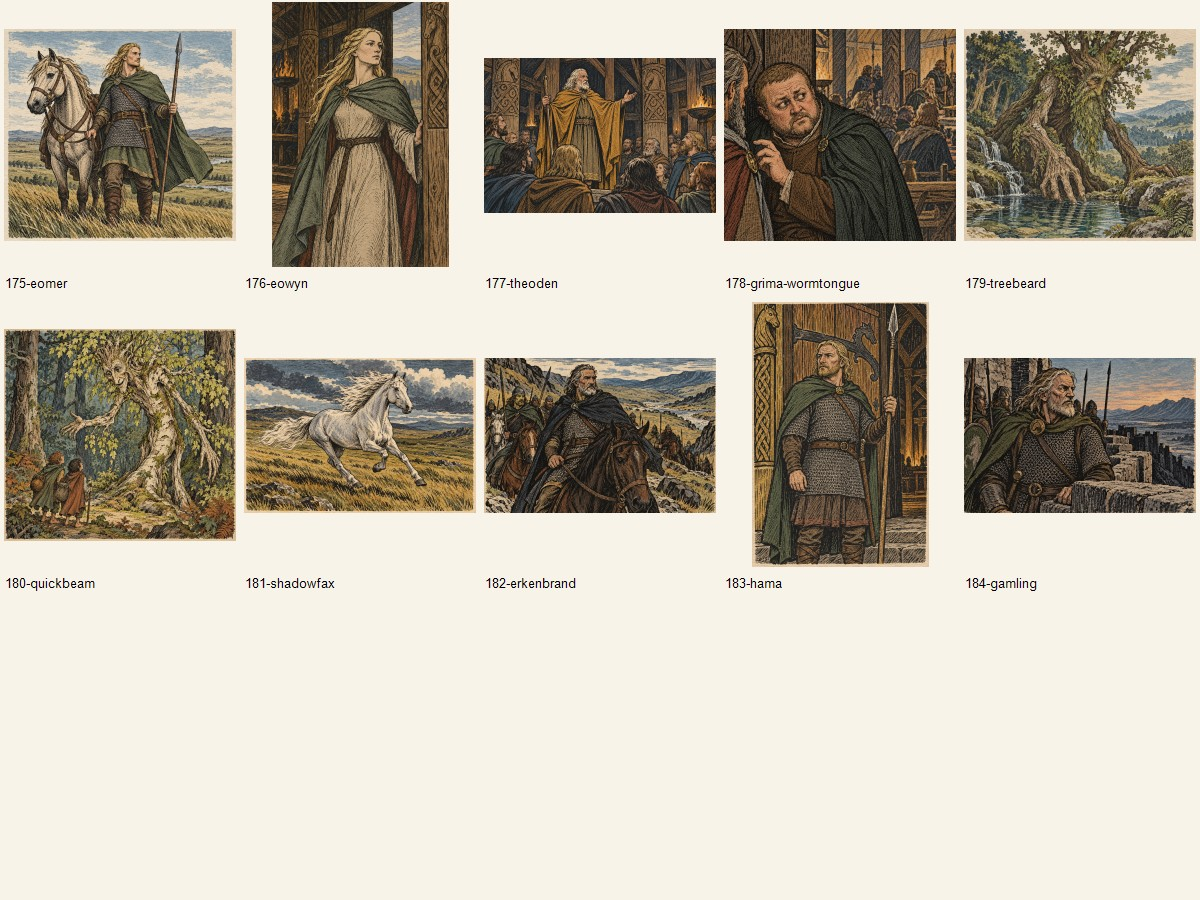
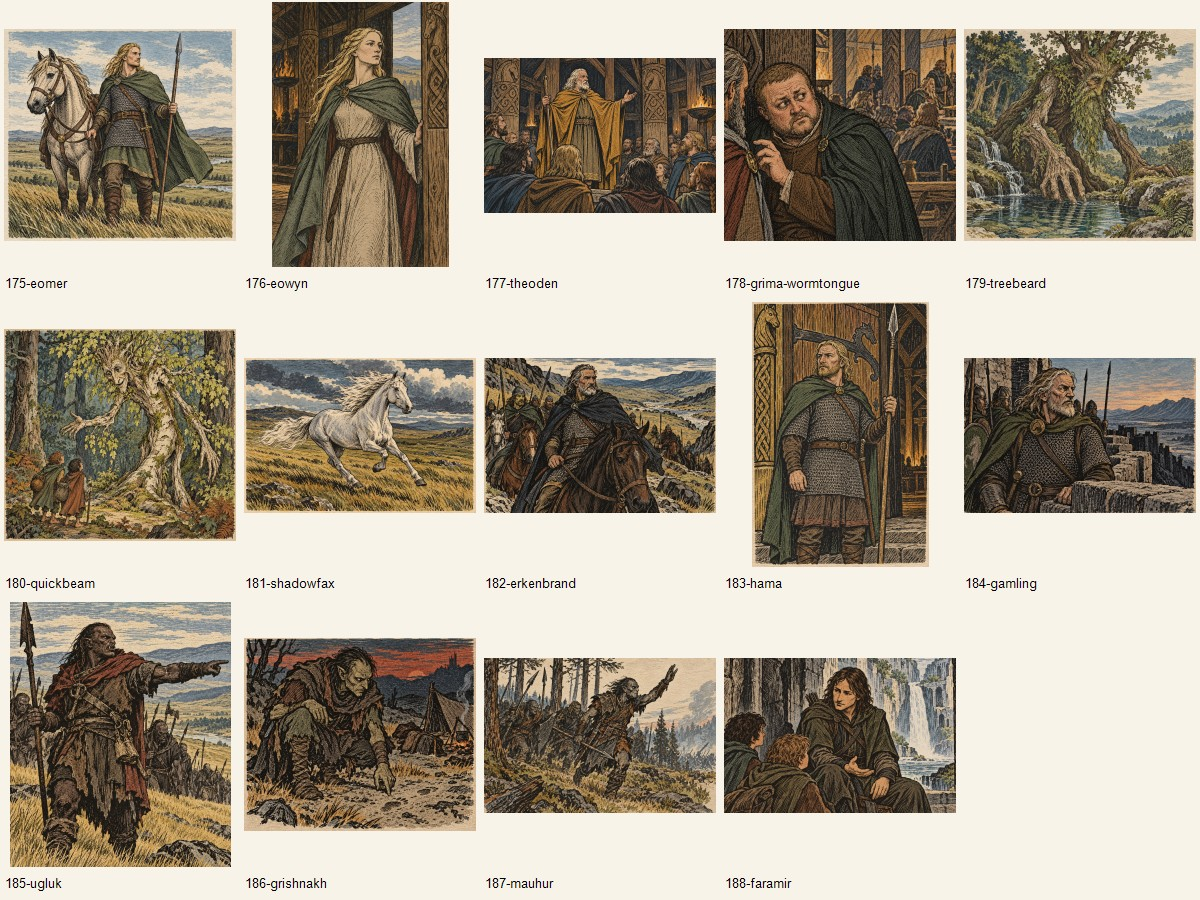
Add Two Towers Orc leaders and Faramir illustrations

diff --git a/scripts/lotr-two-books-art/PROGRESS.md b/scripts/lotr-two-books-art/PROGRESS.md
@@ -11,14 +11,14 @@ Work on both books together. Reuse art for the same subject across books, but ne
 ## Inventory and progress
 
 - `manifest.json` lists 217 distinct original illustrations for 389 cover, character, item and location slots: 173 Fellowship and 216 Two Towers. Exactly 172 illustrations are shared across books. Book-specific extras are one Fellowship cover and 44 Two Towers subjects.
-- 184 final images are accepted, registered, and converted to JPEG: assets 001-184. The PNG masters are ignored by Git. 33 assets remain pending.
+- 188 final images are accepted, registered, and converted to JPEG: assets 001-188. The PNG masters are ignored by Git. 29 assets remain pending.
 - `make-contact-sheets.ps1` produces category sheets for visual review; the first cover and character sheets were generated and inspected.
 - The accepted Fellowship cover depicts Tom Bombadil guiding the four hobbits from the Old Forest, a book scene omitted by the films. The accepted Two Towers cover depicts Faramir speaking to Frodo and Sam in Henneth Annûn. Accepted shared art includes a distinctly non-film Aragorn, Arwen, a shadow-and-flame Balrog without film horns or wings, and Barliman Butterbur.
 - An earlier Fellowship cover with a nine-person lineup, an earlier Aragorn that resembled the film actor, a multi-pose Boromir, a blond film-like Legolas, an eye-shaped Sauron, and initial Erestor, Glóin, and Saruman variants with film-like Council or character imagery were rejected and are not part of the registered assets.
 - The `.pwk` files contain 69 and 104 linked image blobs. The companion `.pwb` bundles contain 80 and 66 embedded blobs, including 14 map blobs in each. Many apparent missing references resolve through `.pwb`. The artwork task will replace all linked and embedded non-map art; preserve the functional map bundles. Two map layers in each book reuse a map image for navigation overlays; the no-repeat rule is enforced on cover, character, item and location illustrations.
 - A trial set of schematic SVG maps was discarded after discovering the embedded maps. No map replacements are pending.
 - `import-art.mjs` is prepared but intentionally refuses to run until all 217 approved JPEGs exist. It will import unique image refs per book, keep the map-only PWB, archive old blob metadata, update the catalogue, and correct Fellowship's `Endoras` typo to `Edoras`.
-- `validate.mjs` checks the checkpoint now and will check final art URL/hash uniqueness, map resolution, source removal, and catalogue sizes after import. Current checkpoint validation passes at 184/217.
+- `validate.mjs` checks the checkpoint now and will check final art URL/hash uniqueness, map resolution, source removal, and catalogue sizes after import. Current checkpoint validation passes at 188/217.
 
 ## Next actions
 
